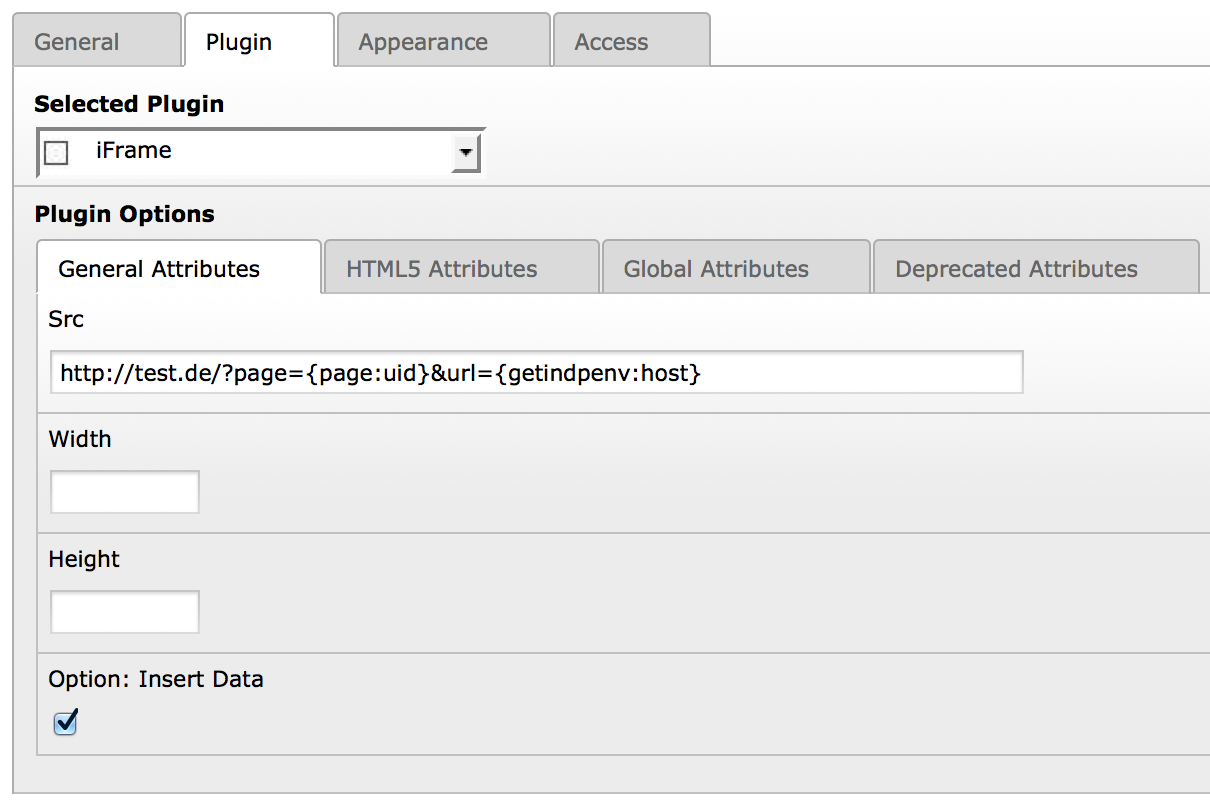
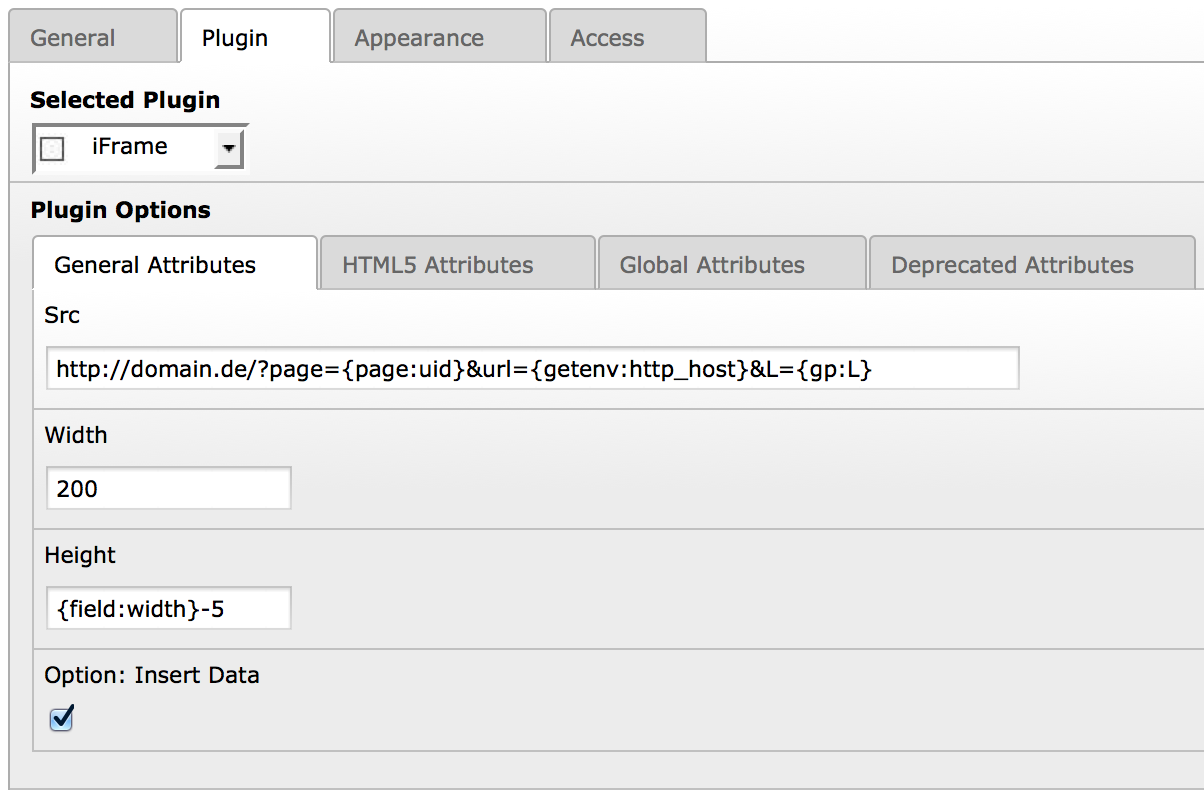
[TASK] Adds prioCalc to width and height

Changed region(s): [[0.0, 0.0, 1.0, 1.0]]

diff --git a/Documentation/_make/conf.py b/Documentation/_make/conf.py
@@ -48,9 +48,9 @@ copyright = u'2013, Lars Peipmann'
 # built documents.
 #
 # The short X.Y version.
-version = '1.2.0'
+version = '1.2.1'
 # The full version, including alpha/beta/rc tags.
-release = '1.2.0'
+release = '1.2.1'
 
 # The language for content autogenerated by Sphinx. Refer to documentation
 # for a list of supported languages.

diff --git a/Documentation/Screenshots/Index.rst b/Documentation/Screenshots/Index.rst
@@ -12,11 +12,13 @@ Screenshots
 ===========
 
 .. figure:: Images/tabGeneral.png
-	:width: 605px
+	:width: 602px
 	:alt: Tab: General Attributes
 
 	Attributes "Src", "Width" and "Height".
-	"Option: Insert Data" enables "stdWrap.insertData" for every flexform field (See the example in "Src")
+	"Option: Insert Data" enables "stdWrap.insertData" for every flexform field (See the example in "Src").
+	Calculate in "Width" and "Height" (with "stdWrap.prioriCalc = intval").
+	Use values of prior fields (See the example in "Height").
 
 
 .. figure:: Images/tabHtml5.png
